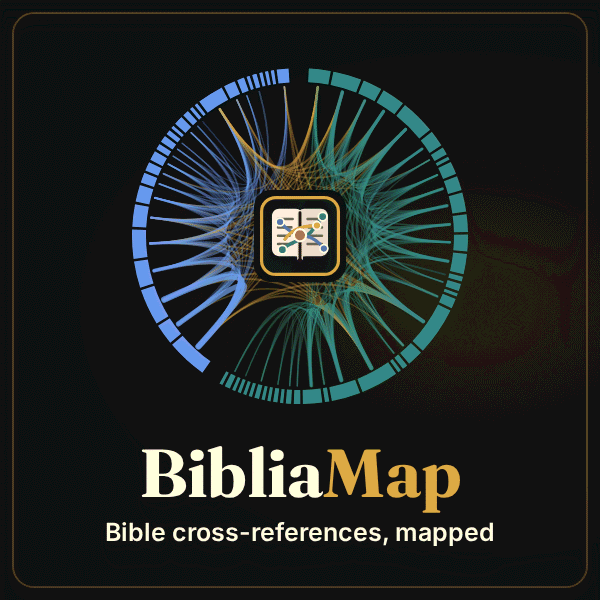
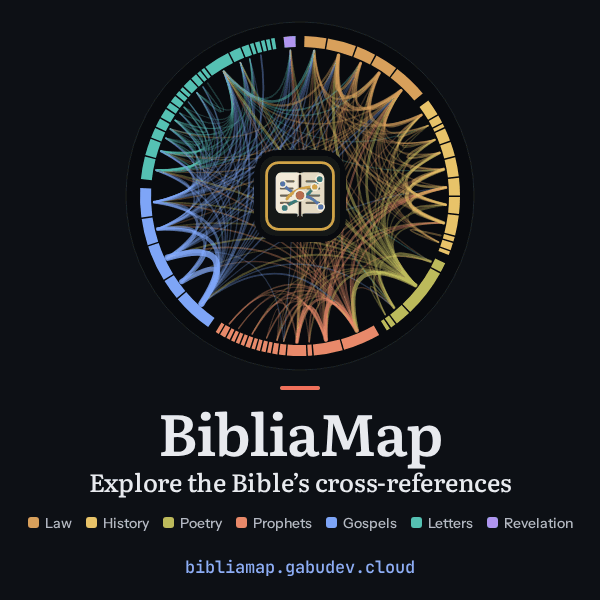
feat(share): regenerate Open Graph images in dark design
Dark 'Reference Column' palette, Literata/Instrument Sans/JetBrains Mono,
chord diagram from real book matrix coloured by canon section with section
gaps, rubric notch on the margin rule. Bump image URLs to ?v=2; static
theme-color is now dark --bg (#0d1015) and the pre-paint script sets the
light value explicitly.

diff --git a/frontend/index.html b/frontend/index.html
@@ -5,7 +5,7 @@
       <meta name="viewport" content="width=device-width, initial-scale=1.0" />
       <meta name="description" content="Explore the Bible’s cross-references as an interactive map — books, chapters and study notes. Esplora i riferimenti incrociati della Bibbia." />
       <meta name="application-name" content="BibliaMap" />
-      <meta name="theme-color" content="#f3f4f1" />
+      <meta name="theme-color" content="#0d1015" />
       <meta name="color-scheme" content="light dark" />
       <meta name="apple-mobile-web-app-title" content="BibliaMap" />
       <meta name="apple-mobile-web-app-capable" content="yes" />
@@ -17,13 +17,13 @@
       <meta property="og:title" content="BibliaMap — Bible cross-reference map" />
       <meta property="og:description" content="Explore the Bible’s cross-references as an interactive map — books, chapters and study notes. Esplora i riferimenti incrociati della Bibbia." />
       <meta property="og:url" content="https://bibliamap.gabudev.cloud/" />
-      <meta property="og:image" content="https://bibliamap.gabudev.cloud/og-image.png?v=1" />
-      <meta property="og:image:secure_url" content="https://bibliamap.gabudev.cloud/og-image.png?v=1" />
+      <meta property="og:image" content="https://bibliamap.gabudev.cloud/og-image.png?v=2" />
+      <meta property="og:image:secure_url" content="https://bibliamap.gabudev.cloud/og-image.png?v=2" />
       <meta property="og:image:type" content="image/png" />
       <meta property="og:image:width" content="1200" />
       <meta property="og:image:height" content="630" />
       <meta property="og:image:alt" content="BibliaMap logo beside a circular chord diagram of cross-references between the books of the Bible" />
-      <meta property="og:image" content="https://bibliamap.gabudev.cloud/og-image-square.png?v=1" />
+      <meta property="og:image" content="https://bibliamap.gabudev.cloud/og-image-square.png?v=2" />
       <meta property="og:image:type" content="image/png" />
       <meta property="og:image:width" content="600" />
       <meta property="og:image:height" content="600" />
@@ -32,7 +32,7 @@
       <meta name="twitter:card" content="summary_large_image" />
       <meta name="twitter:title" content="BibliaMap — Bible cross-reference map" />
       <meta name="twitter:description" content="Explore the Bible’s cross-references as an interactive map — books, chapters and study notes. Esplora i riferimenti incrociati della Bibbia." />
-      <meta name="twitter:image" content="https://bibliamap.gabudev.cloud/og-image.png?v=1" />
+      <meta name="twitter:image" content="https://bibliamap.gabudev.cloud/og-image.png?v=2" />
       <meta name="twitter:image:alt" content="BibliaMap logo beside a circular chord diagram of cross-references between the books of the Bible" />
       <!-- /Share preview -->
       <link rel="icon" type="image/svg+xml" href="/bibliamap-icon.svg" />
@@ -48,7 +48,7 @@
                var theme = localStorage.getItem('bibliamap-theme');
                var dark = theme === 'dark' || (theme !== 'light' && matchMedia('(prefers-color-scheme: dark)').matches);
                if (theme === 'light' || theme === 'dark') document.documentElement.setAttribute('data-theme', theme);
-               if (dark) document.querySelector('meta[name="theme-color"]').setAttribute('content', '#0d1015');
+               document.querySelector('meta[name="theme-color"]').setAttribute('content', dark ? '#0d1015' : '#f3f4f1');
             } catch (e) {}
          })();
       </script>
